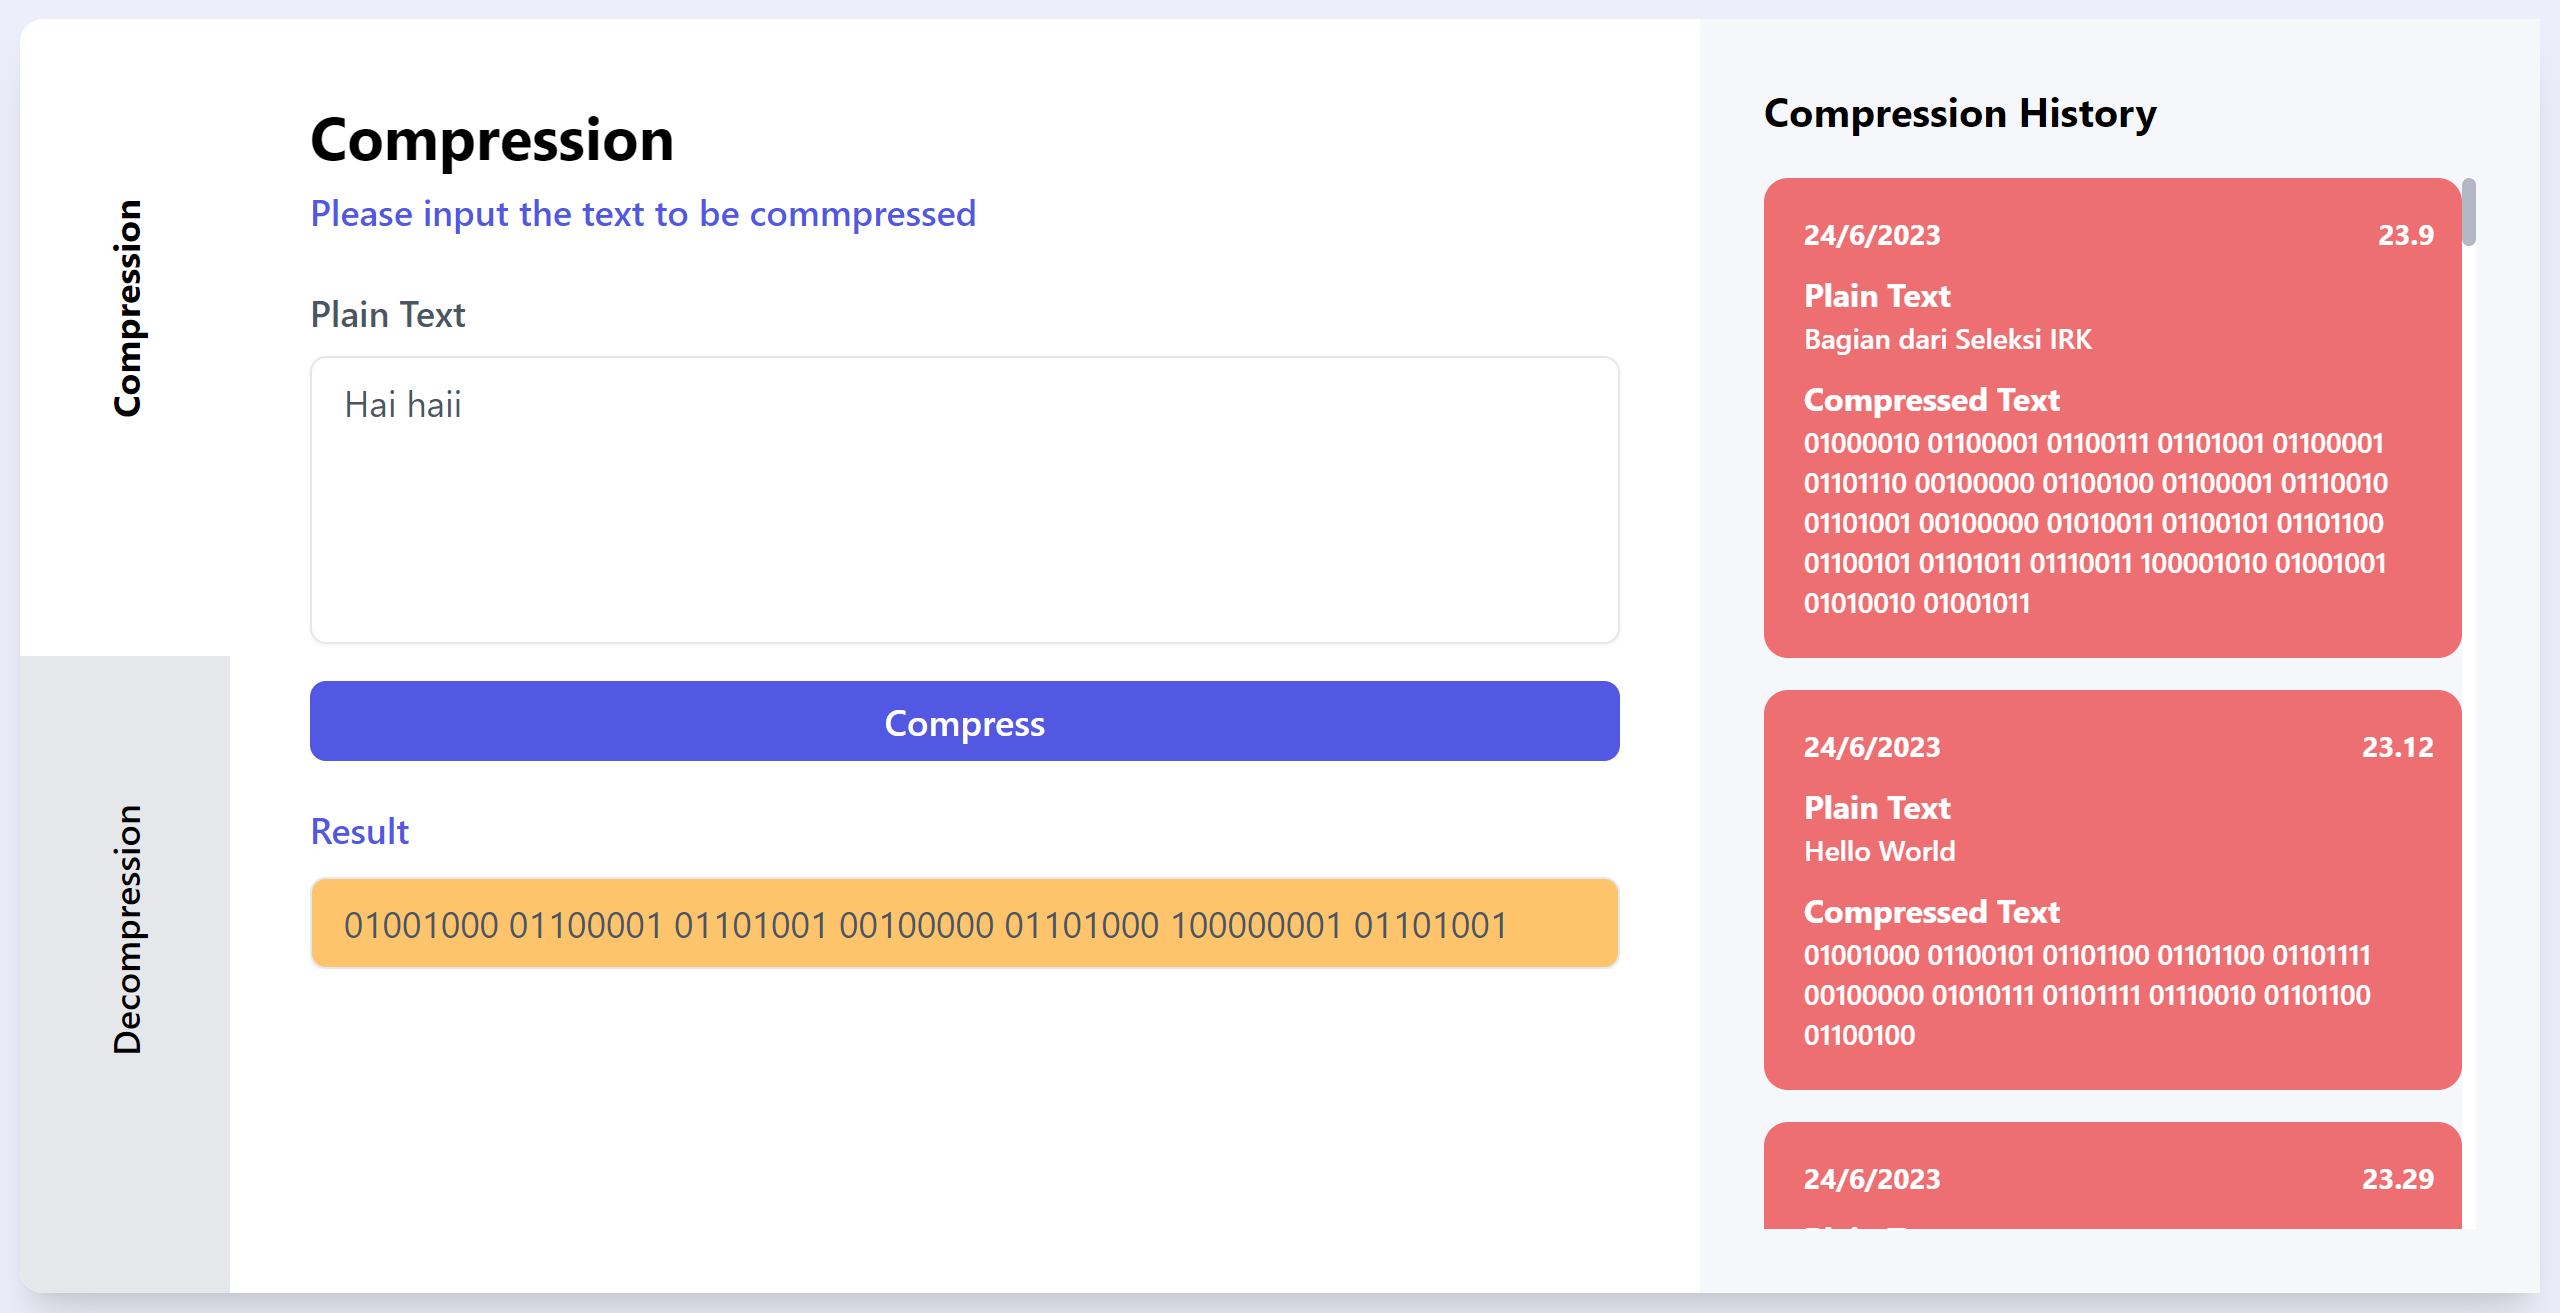
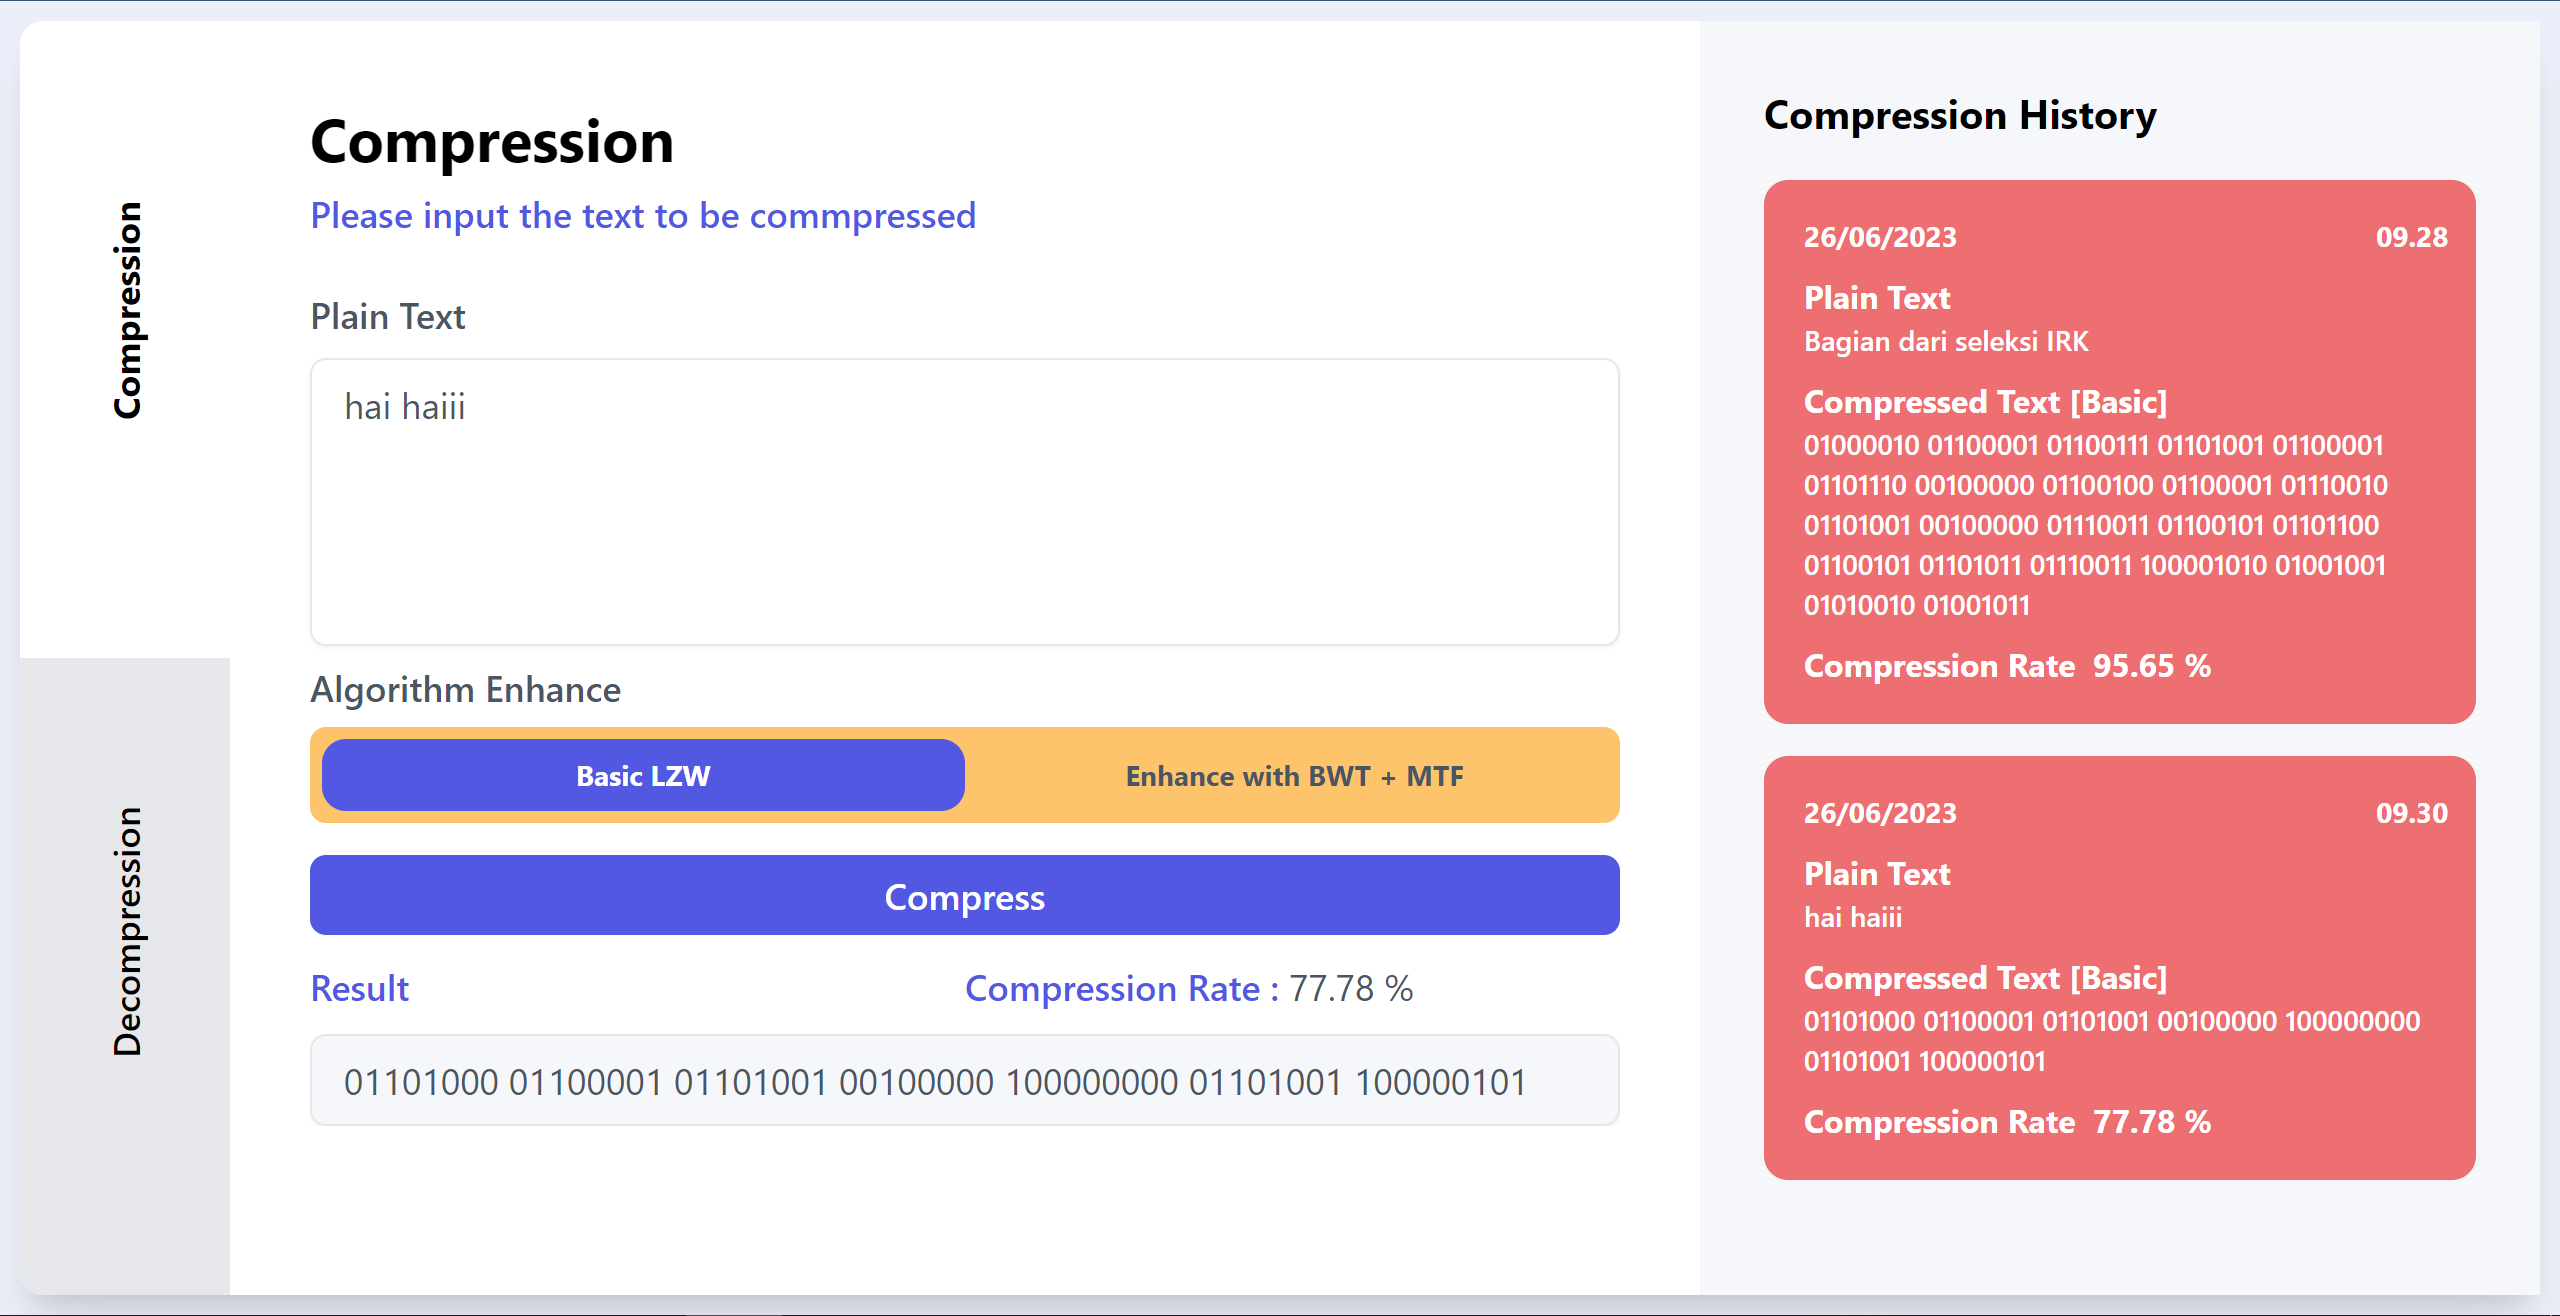
update README.md

diff --git a/README.md b/README.md
@@ -2,7 +2,35 @@
 > Frontend side of TextFile compression using LZW Algorithm with MERN techstack
 
 ## General Information
-LZW Compressor, as its name, is a simple webapp txt-file compression using popular compression algorithm, LZW algorithm. This app receive the string input to be compress into binary bytes and you can decompress it also to get the original string. This app also give the compression and decompression history using mongoDB database and available online on a website. Furthermore, the project information is also provided for future improvements.
+LZW Compressor, as its name, is a simple webapp text-file-compression using popular compression algorithm, Lempel-Ziv-Welsh algorithm. This app receive the string input to be compress into binary bytes and you can decompress it also to get the original string. This app also give the compression and decompression history using mongoDB database and available online on a website. Compression algorithm could be enhanced with BWT (Burrows-Wheeler Transform) associated with modified Move-to-front (MTF) compression algorithm with calculated compression and decompression rate to state the remaining number of characters after compression and decompression process. Furthermore, the project information is also provided for future improvements.
+
+## Project Structure
+```bash
+.
+├─── img
+├─── public
+├─── src
+│   ├─── components
+│   │   ├─── Cards
+│   │   │   ├─── CompressionCard.jsx
+│   │   │   └─── DecompressionCard.jsx
+│   │   └─── Forms
+│   │   │   ├─── CompressionForms.jsx
+│   │   │   └─── DecompressionForm.jsx
+│   ├─── App.css
+│   ├─── App.jsx
+│   ├─── index.css 
+│   └─── main.jsx
+├─── .env
+├─── .gitignore
+├─── index.html
+├─── package-lock.json
+├─── package.json
+├─── postcss.config.cjs
+├─── README.md
+├─── tailwind.config.js
+└─── vite.config.js
+```
 
 ## Prerequisites
 - node.js (v 18.12.1)
@@ -10,13 +38,49 @@ LZW Compressor, as its name, is a simple webapp txt-file compression using popul
 - React (v 18.2.0)
 - Tailwind (v 3.3.2)
 
-## Process Flow
-### Input
-Input of compressing process is a string, constructed by ASCII character and input of the decompressing process is a binary bytes of a compressed string.
-### Algorithms
-Algorithm applied for this process is LZW algorithm. The algorithm is able to compress and decompress the input.
-### Output
-Input of compressing process is a binary bytes of a compressed string and input of the decompressing process is a decompressed string.
+## Algorithms
+Algorithm implemented on backend side. Further implementation of algorithm stated on [this repository](https://github.com/mikeleo03/LZW-Compressor_Backend)
+
+### Process Flow
+Basic algorithm flow for compression is
+```bash
+INPUT -> LZW -> OUTPUT
+``` 
+but the compression process also could be enhanced using BWT and modified MTF algorithm with this flow
+```bash
+INPUT -> LZW -> BWT -> MTF -> OUTPUT
+``` 
+
+Then basic algorithm flow for decompression is
+```bash
+INPUT -> LZW -> OUTPUT
+``` 
+but the decompression process of an enhanced string could be proceed with this flow with this flow
+```bash
+INPUT -> MTF -> BWT -> LZW -> OUTPUT
+``` 
+
+### Lempel-Ziv-Welsh (LZW) Algorithm
+LZW is a lossless compression algorithm. This compression process is implemented as follows:
+1. Create a dictionary filled with 255 ASCII characters.
+2. Parse the string input by character then check whether the current string is in the dictionary
+  a. If it is in the dictionary, then append it to the current string
+  b. If not, then add the current string to the output and add the current string, appended with the current reading character to the dictionary.
+3. Repeat the whole process until the last character in the string is going to be proceed.
+4. Push the last to the output.
+
+### Burrows-Wheeler Transform (BWT) Algorithm
+BWT is a method to do a string clustering in order to increase the effectiveness of compression process. To note, this algorithm really help much the implementation of the MTF. The encoding process is implemented as follows:
+1. Insert a null character to border and help the decoding process.
+2. Create some rotation posiibility of the string input and store it in a matrices then sort it alphabetically.
+3. Take the last matrix to be the output
+
+### Move-to-front (MTF) Algorithm
+MTF is another popular compression algorithm designed to improve the performance of entropy encoding techniques of compression. Modified implementation to this algorithm is to put the frequently-used character in front of array to minify the encoded characters. This algorithm is implemented as follows:
+1. Maintain an ordered list of legal symbols (in this case, modified-order of 255 ASCII Character). 
+2. Read one character at a time from input string. 
+3. Add up the position at which that character appears in the list to the solution list. 
+4. Move that character to front of the list and repeat the process until indexes for all input characters are obtained.
 
 ## Available Scripts
 In the project directory, you can run:
